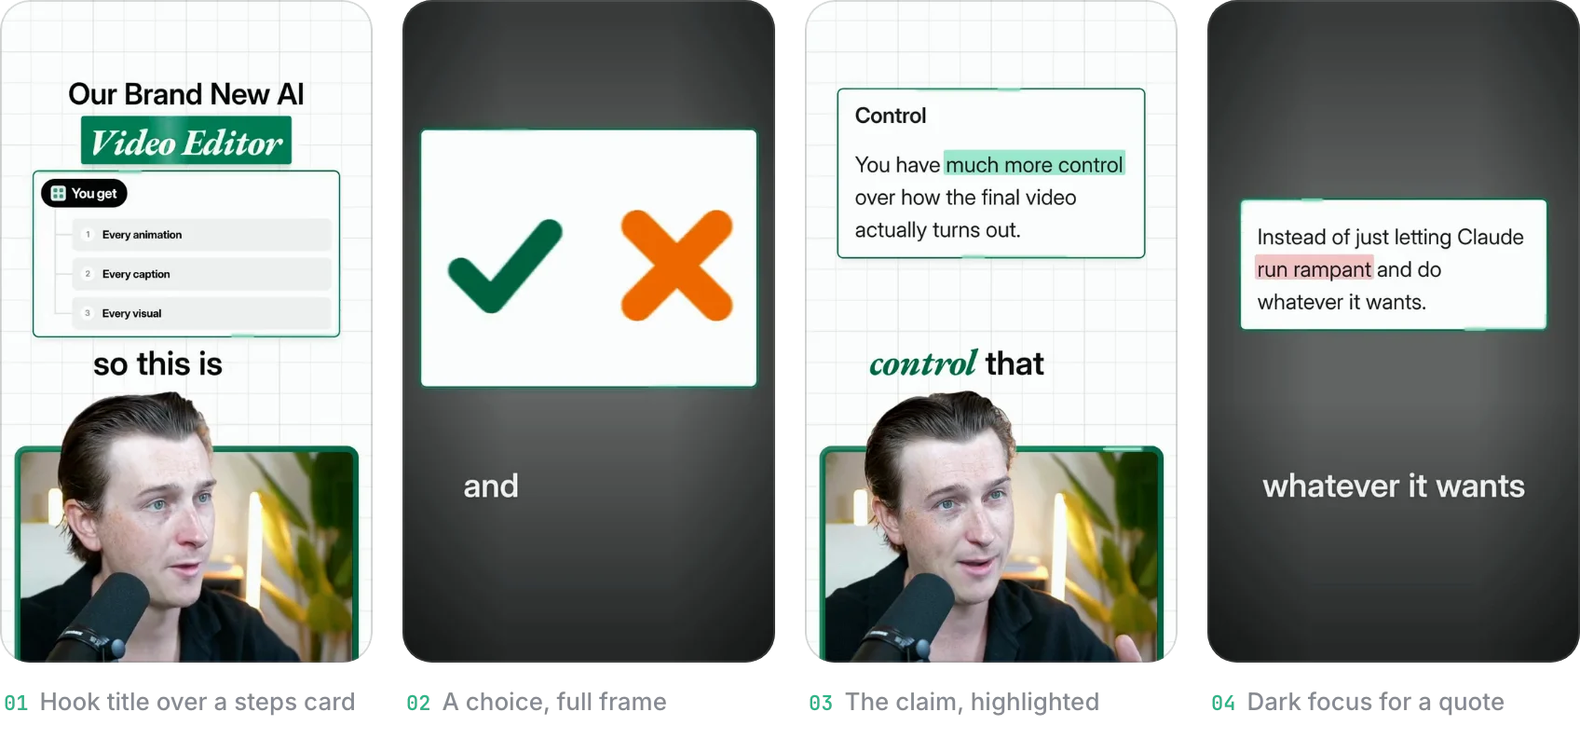
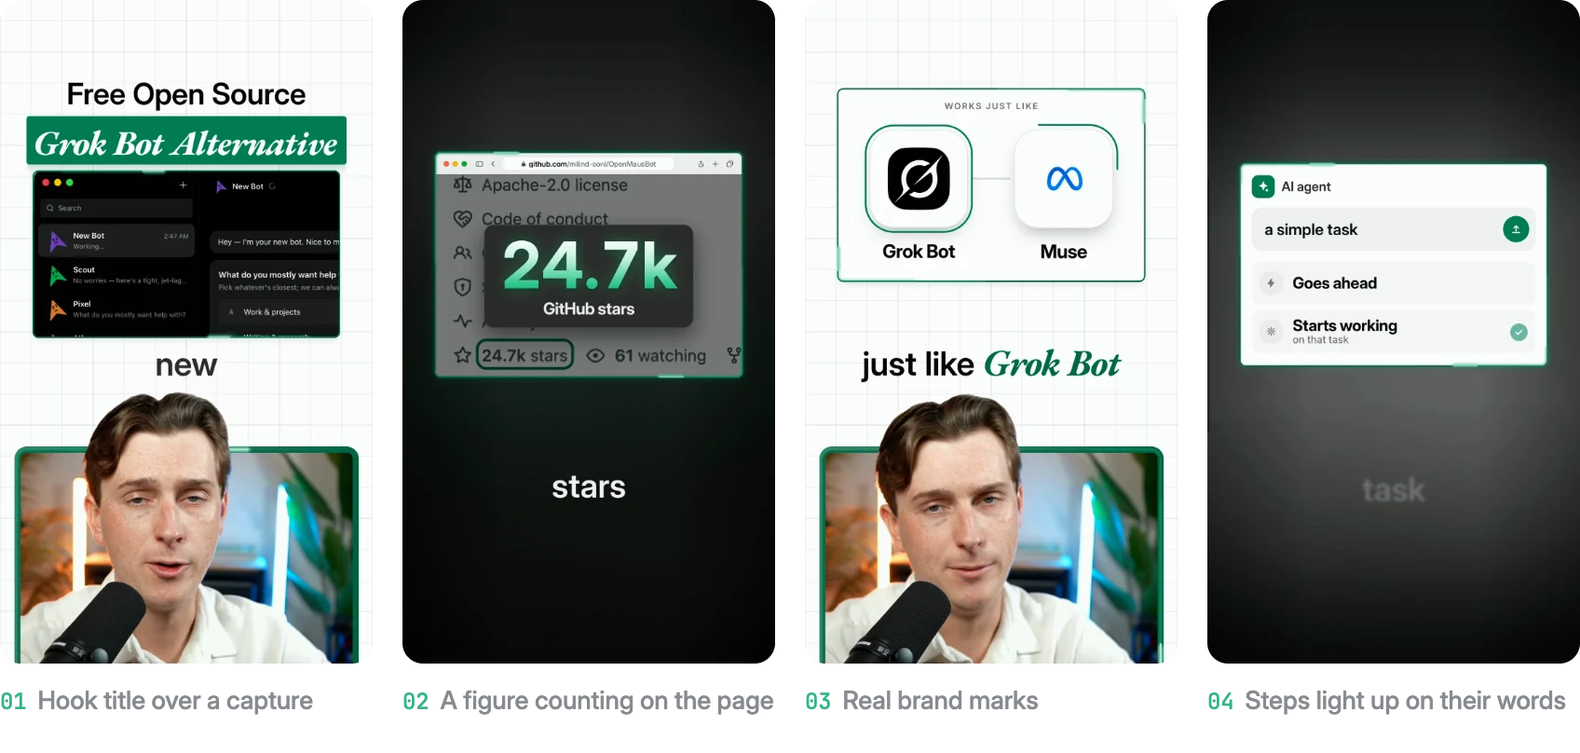
Motus 0.4.0: README for six styles, update guide, new media
The README described three to five styles, a 0.2.0 badge and a Mac-first
setup. It now matches the repository:

- Hero: the same 6 s of one take in all six styles, in sync.
- New strips for Ribbon Depth and Open Canvas; Editorial Proof and Ember
  Brief strips show their new cards. All from that same take.
- The app's "Pick a look" step, with each style playing its preview.
- Start here clones the repository. A new Update section: stop the app,
  git pull, start again (a running app server keeps serving old code);
  moving a ZIP download to a clone; updating the plugin.
- Styles in the app's order, a six-column side-by-side table with
  element and layout counts and versions, research numbers for all six
  packs, motus logo and the agent's product-video downloads under
  Privacy, yt-dlp as optional, PT Serif and Caveat Brush under Licence.

Versions: plugin 0.4.0 in both manifests, so installed plugins pick up
Open Canvas and the newer style work. Editorial Proof and Ember Brief
0.2.0, since both changed. CHANGELOG gains the missing Editorial Proof
entry.

diff --git a/README.md b/README.md
@@ -1,5 +1,5 @@
 <p align="center">
-  <img src="docs/media/hero.webp" width="100%" alt="Motus. Three phones play takes edited by Motus, one in each style: Editorial Proof, Night Class and Ember Brief.">
+  <img src="docs/media/hero.webp" width="100%" alt="Motus. Six phones play the same moment of one take, edited by Motus in each of its six styles: Ribbon Depth, Editorial Proof, Ember Brief, Night Class, Open Canvas and Prop Room.">
 </p>
 
 <p align="center">
@@ -8,7 +8,8 @@
 </p>
 
 <p align="center">
-  <a href="CHANGELOG.md"><img alt="Version 0.2.0" src="https://img.shields.io/badge/version-0.2.0-f2a33a?style=flat-square&labelColor=18181b"></a>
+  <a href="CHANGELOG.md"><img alt="Version 0.4.0" src="https://img.shields.io/badge/version-0.4.0-f2a33a?style=flat-square&labelColor=18181b"></a>
+  <a href="#six-styles"><img alt="Six styles" src="https://img.shields.io/badge/styles-6-f2a33a?style=flat-square&labelColor=18181b"></a>
   <a href="#install"><img alt="Claude Code plugin" src="https://img.shields.io/badge/Claude_Code-plugin-d97757?style=flat-square&labelColor=18181b"></a>
   <a href="#codex-experimental"><img alt="Codex: experimental" src="https://img.shields.io/badge/Codex-experimental-8b8f97?style=flat-square&labelColor=18181b"></a>
   <a href="#status-and-known-limits"><img alt="Tested on macOS and Windows" src="https://img.shields.io/badge/tested_on-macOS_%7C_Windows-8b8f97?style=flat-square&labelColor=18181b"></a>
@@ -19,7 +20,8 @@
 
 <p align="center">
   <a href="#start-here"><b>Start here</b></a> ·
-  <a href="#four-styles">Styles</a> ·
+  <a href="#update">Update</a> ·
+  <a href="#six-styles">Styles</a> ·
   <a href="#how-it-works">How it works</a> ·
   <a href="#studio">Studio</a> ·
   <a href="#how-styles-are-made">How styles are made</a> ·
@@ -32,7 +34,7 @@
 ## Start here
 
 1. Open Claude Code or Codex on your computer.
-2. Give it this folder (open the folder, or drag it into the chat) and say **go**.
+2. Paste this: **Clone https://github.com/kyleherbel/motus, then set up Motus and get started.** If you already have the folder, open it or drag it into the chat and say **go**.
 3. The Motus app opens in your browser. Drop a video in it, pick a look, review the edit scene by scene, and render.
 
 > [!TIP]
@@ -40,19 +42,56 @@
 
 You give Motus a raw take or a picture-locked cut and pick a style. You choose between options for each scene on a local review page, and you get a 1080×1920 MP4.
 
-Version 0.3.1. Five style packs, in beta. Runs on macOS and Windows 10 or 11. Claude Code is the first target. OpenAI Codex support is experimental.
+<img src="docs/media/app.webp" width="100%" alt="The Motus app after a video is dropped in. It asks how to cut the video (cut out pauses and mistakes, or keep every frame), then shows Pick a look: a card per style, each playing three short clips of a real edit in that style, with a summary and what it is best for. Ribbon Depth is selected.">
+
+The app asks how to cut the video and which look to use. Each style card plays a few seconds of a real edit in that style.
+
+Version 0.4.0. Six style packs, all in beta. Runs on macOS and Windows 10 or 11. Claude Code is the first target. OpenAI Codex support is experimental.
+
+### Update
+
+If you cloned the repository, paste this into Claude Code or Codex:
+
+> Update Motus: stop the Motus app (`node engine/bin/motus.mjs app --stop`, in my Motus folder), run `git pull`, then start Motus again.
+
+Stop the app before you pull. A running app server keeps serving the code it started with, and it stays up for up to 12 idle hours.
+
+- **From a ZIP.** A folder from GitHub's Download ZIP is not linked to the repository, so `git pull` cannot update it. Ask your agent to replace it with a clone in the same place, under the same name, and to copy over anything of yours from the old folder.
+- **As a Claude Code plugin.** Run `claude plugin marketplace update motus-market`, then `claude plugin update motus@motus-market`, and restart Claude Code.
+
+Your videos live outside the Motus folder, so an update never touches them.
 
 ## Six styles
 
-A style is a pack of rules, layouts and elements studied from reference videos. Pick one per video. All six are in beta: Editorial Proof, Night Class, Ember Brief, Prop Room and Open Canvas are version 0.1.0, Ribbon Depth is 0.2.0. Ribbon Depth combines measured public examples with documented original extensions.
+A style is a pack of rules, layouts and elements studied from reference videos. Pick one per video. All six are in beta: Ribbon Depth, Editorial Proof and Ember Brief are version 0.2.0; Night Class, Prop Room and Open Canvas are 0.1.0. Ribbon Depth combines measured public examples with documented original extensions. Open Canvas is measured from a single clip.
+
+The frames below come from real renders. The Ribbon Depth, Open Canvas, Editorial Proof and Ember Brief strips are all from one take, the same take the hero shows in all six styles.
+
+Ribbon Depth, Editorial Proof, Ember Brief and Prop Room draw cards that act the sentence out instead of repeating the caption: a count runs up to the number just said, a step lights up on its word, a pointer clicks the setting being named. When the speaker names a real product, the agent looks for the maker's own launch or demo video and cuts short clips of it into the edit, and `motus logo` fetches the brand's real mark for styles that show one.
+
+### Ribbon Depth &nbsp;<sub><code>ribbon-depth</code></sub>
+
+A bright speaker in their own darkened room, a turning 3D glass ribbon behind the head, frosted cards and icon tiles, and a cream capsule over a sans phrase with one heavy italic accent. Entrances go blur to sharp, the camera shakes on landings, and layout changes smear vertically. A scene library picks the device from what each sentence does, so it fits any topic or niche: counting numbers, stop-to-start swaps, charts, a hub with satellites, chat bubbles, notifications, quotes, a giant word behind the head, step stacks with a light trail, typed searches and a clicked button. The ribbon is a placed accent in four forms (spiral, sweep, halo, arc), not a background on every scene. A `split` layout puts the speaker in a glass window above a panel.
+
+<img src="docs/media/style-ribbon-depth.webp" width="100%" alt="Four Ribbon Depth frames: a glass card over the orange ribbon behind the speaker, the speaker in a glass window over a stop-to-start swap, a 20,000+ GitHub stars figure in heavy italic, and a comment button over the dark glass scene.">
+
+**Best for** polished talking-head reels on any topic or niche: personal brands and coaching; tool, product and money explainers; fitness, food and lifestyle tips. It is listed first in the app. Use `/motus:ribbon-reel`, or select Ribbon Depth in the app. Controls: Orange (default), Violet or Light Lime; motion intensity; ribbon strength; supporting captions. 17 elements and 6 layouts. See [the directing guide](skills/ribbon-reel/SKILL.md), [the style guide](styles/ribbon-depth/STYLE.md) and [what was measured](styles/ribbon-depth/research/README.md).
 
 ### Editorial Proof &nbsp;<sub><code>editorial-proof</code></sub>
 
-**Claim, then proof.** The speaker sits in a panel at the bottom with real evidence above: captured pages, numbers, lists. Word-by-word captions with accent keywords, dark focus shots for close reading, and a comment call to action at the end. Two accent colours, emerald and violet, over a white grid.
+**Claim, then proof.** The speaker sits in a panel at the bottom with real evidence above: captured pages, numbers, real brand marks. The designed cards act the sentence out: a question types in with the voice while the answer streams in, steps wait greyed and light up on their words, two sides converge or one wins, a divider wipes from before to after. Word-by-word captions with accent keywords, dark focus shots for close reading, and a comment call to action at the end. Two accent colours, emerald and violet, over a white grid.
 
-<img src="docs/media/style-editorial-proof.webp" width="100%" alt="Four Editorial Proof frames: a hook title over a steps card, a full-frame choice card, a claim with its key words highlighted, and a dark focus shot of a quote.">
+<img src="docs/media/style-editorial-proof.webp" width="100%" alt="Four Editorial Proof frames: a hook title over a captured page, a 24.7k figure counting over a GitHub page, two real brand marks side by side, and an AI agent card whose steps light up as they are spoken.">
 
-**Best for** tool and product breakdowns, numbered lists, news and explainer takes, anything with sources, numbers or screens to show.
+**Best for** tool and product breakdowns, comparisons, news and explainer takes, anything with sources, numbers or screens to show. 20 elements and 4 layouts.
+
+### Ember Brief &nbsp;<sub><code>ember-brief</code></sub>
+
+**The 40-second tool briefing.** A dark dotted field fills the top half of the frame and the speaker fills the bottom half. A new graphic lands about every three seconds, each event on the word that names it. Most of the explaining pictures are composites that fill the field and keep moving while the speaker talks: app tiles feed one card along curving lines with dots flowing in, a task ticks off its steps while a Working bar fills, a pointer glides to a row and flips its switch, a chip pops out beside a captured row and counts up to the page's figure. The rest show evidence: real page captures with magenta highlights, app screens redrawn as dark cards, clips of the product's own demo video. For a tall graphic the speaker slides away and the field takes the frame.
+
+<img src="docs/media/style-ember-brief.webp" width="100%" alt="Four Ember Brief frames: an opening title over a product screenshot, a Simple task card with its steps ticked off and the status Done, app icons feeding a 500+ app connectors card, and a pointer flipping magenta switches.">
+
+**Best for** solo briefings of 30 to 45 seconds: new tool and feature explainers, news takes with a source to show, short numbered tool lists. 21 elements and 2 layouts.
 
 ### Night Class &nbsp;<sub><code>night-class</code></sub>
 
@@ -60,21 +99,15 @@ A style is a pack of rules, layouts and elements studied from reference videos. 
 
 <img src="docs/media/style-night-class.webp" width="100%" alt="Four Night Class frames: numbered steps with a moving highlight, a document card, a table that fills in, and a light-field call to action.">
 
-**Best for** solo teaching videos: frameworks and playbooks, numbered steps and lists, how-tos and strategy explainers.
+**Best for** solo teaching videos: frameworks and playbooks, numbered steps and lists, how-tos and strategy explainers. 17 elements and 3 layouts.
 
-### Ember Brief &nbsp;<sub><code>ember-brief</code></sub>
+### Open Canvas &nbsp;<sub><code>open-canvas</code></sub>
 
-**The 40-second tool briefing.** A dark dotted field fills the top half of the frame and the speaker fills the bottom half. A new graphic lands about every three seconds. About half of them explain the sentence in motion, each event on the word that names it: a line draws between two things and a check lands, a figure counts while a picture fills, two cards race. The rest show evidence: real page captures with magenta highlights, app screens redrawn as dark cards. For a tall graphic the speaker slides away and the field takes the frame.
+**The video as an open design file.** The speaker is cut out over their own footage rectangle on a black drafting grid that drifts upward. Real pages and screens sit in light-blue selection frames with handles, and a cursor drags them into place. Pointers land on the spoken word: a box means read, a dot means tap, a whip scroll means "or over here". Captions arrive one word at a time with one brush-script word a sentence. Every change is a hard cut. There is no music and no sound effect, and the video ends on the bare face with the comment keyword.
 
-<img src="docs/media/style-ember-brief.webp" width="100%" alt="Four Ember Brief frames: a link drawing between Keyword and Resource, a free-against-paid card, a redrawn settings screen with toggles, and a comment call to action.">
+<img src="docs/media/style-open-canvas.webp" width="100%" alt="Four Open Canvas frames: a hook title over a captured page with the spoken words selected, a cursor on a real app screen above the cut-out speaker, a page in a light-blue selection frame with handles, and the bare face with a brush-script caption.">
 
-**Best for** solo briefings of 30 to 45 seconds: new tool and feature explainers, news takes with a source to show, short numbered tool lists.
-
-### Ribbon Depth &nbsp;<sub><code>ribbon-depth</code></sub>
-
-A bright speaker in their own darkened room, a turning 3D glass ribbon behind the head, frosted cards and icon tiles, and a cream capsule over a sans phrase with one heavy italic accent. Entrances go blur to sharp, the camera shakes on landings, and layout changes smear vertically. A scene library picks the device from what each sentence does, so it fits any topic or niche: counting numbers, stop-to-start swaps, charts, a hub with satellites, chat bubbles, notifications, quotes, a giant word behind the head, step stacks with a light trail, typed searches and a clicked button. The ribbon is a placed accent in four forms (spiral, sweep, halo, arc), not a background on every scene. A `split` layout puts the speaker in a glass window above a panel.
-
-**Best for** polished talking-head reels on any topic or niche: personal brands and coaching; tool, product and money explainers; fitness, food and lifestyle tips. It is listed first in the app. Use `/motus:ribbon-reel`, or select Ribbon Depth in the app. Controls: Orange (default), Violet or Light Lime; motion intensity; ribbon strength; supporting captions. 17 elements and 6 layouts. See [the directing guide](skills/ribbon-reel/SKILL.md), [the style guide](styles/ribbon-depth/STYLE.md) and [what was measured](styles/ribbon-depth/research/README.md).
+**Best for** tool and repo walkthroughs with real pages to show, and daily solo reels of 25 to 60 seconds. 5 elements and 6 layouts; five palettes (black and white by default). Measured from a single clip, so its rules are provisional. See [the style guide](styles/open-canvas/STYLE.md) and [what was measured](styles/open-canvas/research/README.md).
 
 ### Prop Room &nbsp;<sub><code>prop-room</code></sub>
 
@@ -84,23 +117,19 @@ A bright speaker in their own darkened room, a turning 3D glass ribbon behind th
 
 **Best for** solo tool, skill and workflow explainers of 30 to 47 seconds, where each step can become a picture. 20 elements and 3 layouts. See [the style guide](styles/prop-room/STYLE.md), [the prop library](styles/prop-room/props/README.md) and [what was measured](styles/prop-room/research/README.md).
 
-### Open Canvas &nbsp;<sub><code>open-canvas</code></sub>
-
-**The video as an open design file.** The speaker is cut out over their own footage rectangle on a black drafting grid that drifts upward. Real pages and screens sit in light-blue selection frames with handles, and a cursor drags them into place. Pointers land on the spoken word: a box means read, a dot means tap, a whip scroll means "or over here". Captions arrive one word at a time with one brush-script word a sentence. Every change is a hard cut. There is no music and no sound effect, and the video ends on the bare face with the comment keyword.
-
-**Best for** tool and repo walkthroughs with real pages to show, and daily solo reels of 25 to 60 seconds. 5 elements and 6 layouts; five palettes (black and white by default). Measured from a single clip, so its rules are provisional. See [the style guide](styles/open-canvas/STYLE.md) and [what was measured](styles/open-canvas/research/README.md).
-
 ### Side by side
 
-| | Editorial Proof | Night Class | Ember Brief | Ribbon Depth | Prop Room | Open Canvas |
-|---|---|---|---| --- | --- | --- |
-| Frame | Speaker panel at the bottom, evidence above, white grid | Small presenter panel under a black dot-grid field | Dotted field over the speaker, half and half | Full-frame speaker with graphics behind the head, a speaker window over a panel, and abstract glass scenes | Pale panel over the speaker, cut every 2 s to full-frame scenes and short full-height speaker beats | Speaker cut-out over their footage rectangle on a drafting grid, captures in selection frames; six layouts |
-| Captions | Word by word, accent keywords | One word | Two words, the spoken word in magenta | Words land one by one; capsule plus sans/heavy-italic hero | One to three words, white on a dark plate across the seam | Word by word, one brush-script word a sentence |
-| Signature move | Dark focus shots for close reading | A hard cut to the full-height speaker about every 10 s | A new graphic about every 3 s, half of them explaining in motion | A turning glass ribbon used as an accent, a scene library for any niche, shakes on landings | Code-drawn props and rebuilt app windows that act each sentence out on its words | A cursor that drags windows into place and pointers that land on the spoken word |
-| Sound | Sound effects and two music beds | A sound kit and a music bed | No sound effects, one music bed | Three optional original effects; no bundled bed | Original effects and three beds: two drum-led, one pad | Voice only |
-| Look choices | Accent: emerald or violet | Sound kit, music bed, field texture | None | Orange, Violet or Light Lime; motion intensity; ribbon strength; captions | None: the plate is chosen per scene | Palette: mono (default), cobalt, ember, moss, ink |
-| Best source | Any take, cropped to 9:16 around the speaker | A shot wider than 9:16 (the horizontal recording) | A shot wider than 9:16 (the horizontal recording) | Clear 9:16 take and a good matte; explicit no-matte fallback | A shot wider than 9:16 (the horizontal recording) | A 9:16 take with a good matte |
-| Measured from | 33 short videos | 32 teaching reels | 11 reels | Two Violet examples in one public promo; static bright-family boards | 19 reels | 1 reel |
+| | Ribbon Depth | Editorial Proof | Ember Brief | Night Class | Open Canvas | Prop Room |
+|---|---|---|---|---|---|---|
+| Frame | Full-frame speaker with graphics behind the head, a speaker window over a panel, and abstract glass scenes | Speaker panel at the bottom, evidence above, white grid | Dotted field over the speaker, half and half | Small presenter panel under a black dot-grid field | Speaker cut-out over their footage rectangle on a drafting grid, captures in selection frames | Pale panel over the speaker, cut every 2 s to full-frame scenes and short full-height speaker beats |
+| Captions | Words land one by one; capsule plus sans/heavy-italic hero | Word by word, accent keywords | Two words, the spoken word in magenta | One word | Word by word, one brush-script word a sentence | One to three words, white on a dark plate across the seam |
+| Signature move | A turning glass ribbon used as an accent, a scene library for any niche, shakes on landings | Designed cards that act the claim out, dark focus shots for close reading | A new graphic about every 3 s; composites that fill the field and keep moving | A hard cut to the full-height speaker about every 10 s | A cursor that drags windows into place and pointers that land on the spoken word | Code-drawn props and rebuilt app windows that act each sentence out on its words |
+| Sound | Three optional original effects; no bundled bed | Sound effects and two music beds | No sound effects, one music bed | A sound kit and a music bed | Voice only | Original effects and three beds: two drum-led, one pad |
+| Look choices | Orange, Violet or Light Lime; motion intensity; ribbon strength; captions | Accent: emerald or violet | None | Sound kit, music bed, field texture | Palette: mono (default), cobalt, ember, moss, ink | None: the plate is chosen per scene |
+| Best source | Clear 9:16 take and a good matte; explicit no-matte fallback | Any take, cropped to 9:16 around the speaker | A shot wider than 9:16 (the horizontal recording) | A shot wider than 9:16 (the horizontal recording) | A 9:16 take with a good matte | A shot wider than 9:16 (the horizontal recording) |
+| Elements, layouts | 17, 6 | 20, 4 | 21, 2 | 17, 3 | 5, 6 | 20, 3 |
+| Measured from | Two Violet examples in one public promo; static bright-family boards | 33 short videos | 11 reels | 32 teaching reels | 1 reel | 19 reels |
+| Version | 0.2.0 | 0.2.0 | 0.2.0 | 0.1.0 | 0.1.0 | 0.1.0 |
 
 Each style's layouts, elements and their parameters are listed in `styles/<id>/style.json`. Run `/motus:styles` or `node engine/bin/motus.mjs styles` to see what is installed.
 
@@ -125,7 +154,7 @@ The same style code draws the Studio preview and the final render, so what you a
 | 2 | Ingest | engine | Extracts the audio, transcribes it with word timings, finds silences and candidate retakes, tracks the face (macOS), and writes contact sheets with the time burnt into every cell. |
 | 3 | Understand | agent | Reads the whole transcript and every contact sheet, writes `analysis/understanding.json`, and tells you in a few lines what the video is about. |
 | 4 | Cut and conform | agent, engine | Raw mode: the agent chooses the source ranges to keep (dead air, false starts and retakes go). Locked mode: every frame stays. `motus conform` builds the output timeline, the person matte (macOS) and a preview proxy. |
-| 5 | Plan | agent | Reads the style's `STYLE.md`, captures the web pages it wants to show as evidence, and writes `plan/edit.json`: the video divided into scenes, each with 2 to 4 alternative treatments built from the style's layouts and elements. `motus validate` checks it. |
+| 5 | Plan | agent | Reads the style's `STYLE.md`, gathers evidence (captures of the web pages it wants to show, brand marks with `motus logo`, short clips of a named product's own demo video), and writes `plan/edit.json`: the video divided into scenes, each with 2 to 4 alternative treatments built from the style's layouts and elements. `motus validate` checks it. |
 | 6 | Self-review | agent, engine | `motus stills` renders posters and contact sheets of the planned cut. The agent looks at them and fixes the plan before you see it. |
 | 7 | Studio | you | A local page shows the plan scene by scene. You pick an option, leave notes, and lock scenes. "Send notes" hands your notes to the agent, which revises and updates the page. |
 | 8 | Render | engine | Headless Chrome draws every frame of the final cut. ffmpeg encodes H.264 video and AAC audio, with loudness normalised to -14 LUFS. The result is `renders/final.mp4`. |
@@ -166,22 +195,25 @@ Your decisions are saved in `review/state.json` inside the project, so nothing i
 
 ## How styles are made
 
-The original three packs are measured from a corpus of reference videos. Ribbon Depth studies a smaller set of public examples and clearly separates observed geometry and timing from reconstructed materials and original extensions.
+Five packs are measured from reference videos: four from a corpus of 11 to 33 reels by one creator each, and Open Canvas from a single clip. Ribbon Depth studies a smaller set of public examples and clearly separates observed geometry and timing from reconstructed materials and original extensions.
 
 <table>
   <tr>
-    <td align="center" width="25%"><h3>76</h3>reference videos measured</td>
-    <td align="center" width="25%"><h3>9</h3>dimensions per style</td>
-    <td align="center" width="25%"><h3>181</h3>numbers re-measured in a second pass</td>
+    <td align="center" width="25%"><h3>96</h3>reference videos measured</td>
+    <td align="center" width="25%"><h3>9</h3>dimensions per study</td>
+    <td align="center" width="25%"><h3>210</h3>numbers re-measured in a second pass</td>
     <td align="center" width="25%"><h3>0</h3>reference frames shipped</td>
   </tr>
 </table>
 
-- **Editorial Proof** was built from 33 public short videos by one creator, published between 12 October and 9 November 2026.
+- **Editorial Proof** was built from 33 public short videos by one creator, published between 12 October and 9 November 2026. A second study of the reference's 255 designed graphics and 739 timed events (`styles/editorial-proof/research/explain.md`) showed that the cards act each sentence out, and the style now does the same.
 - **Night Class** was built the same way from 32 teaching reels by another creator, published between 10 October and 11 November 2026. Its second pass re-measured 74 quantities and corrected 15 of them (`styles/night-class/research/verification.md`).
-- **Ember Brief** was built from 11 reels by a third creator, published between 2 and 7 November 2026. Its second pass re-measured 107 quantities and corrected 11 (`styles/ember-brief/research/verification.md`). A second study measured how its illustrations and diagrams explain what is being said (`styles/ember-brief/research/explain.md`).
+- **Ember Brief** was built from 11 reels by a third creator, published between 2 and 7 November 2026. Its second pass re-measured 107 quantities and corrected 11 (`styles/ember-brief/research/verification.md`). A second study measured how its illustrations and diagrams explain what is being said (`styles/ember-brief/research/explain.md`), and a third found that most of them are composites that fill the field and keep moving (`explain-composites.md`).
+- **Prop Room** was built from 19 reels by one creator, published between 29 October and 12 November 2026, with an explanation pass over all 279 graphic units. Its verifier re-measured 29 quantities (`styles/prop-room/research/verification.md`).
+- **Open Canvas** was measured from one public reel of 28.9 s, read at every frame. One clip cannot separate a habit of the style from a habit of one video, so every rule is medium or low confidence, and the pack stays in beta until a corpus of 15 or more clips is studied.
+- **Ribbon Depth** studies one public 20-second promo that contains two Violet edits, and six public scene boards (`styles/ribbon-depth/research/README.md`).
 
-Nine analysts each measured one dimension: layout, type, hook, graphics, motion, structure, colour, audio, presenter. Every rule is a number with evidence: a count, a frame range, a fit error. A second pass re-measured the disputed and critical numbers. The numbers then became one tokens file, the elements were built against it, and each was compared side by side with reference frames.
+For a corpus, nine analysts each measured one dimension: layout, type, hook, graphics, motion, structure, colour, audio, presenter. Every rule is a number with evidence: a count, a frame range, a fit error. A second pass re-measured the disputed and critical numbers. The numbers then became one tokens file, the elements were built against it, and each was compared side by side with reference frames.
 
 The reference videos themselves are never part of this repository. Rights to them are unknown, so they stay on the machine of whoever does the study. Sound effects, music beds and background plates in a style pack are synthesised from the measurements, not copied. Each style also has its own release palette in place of the measured colours; every measured value sits next to its replacement in the style's `research/colour.md`.
 
@@ -222,7 +254,7 @@ Motus needs local files, ffmpeg and a browser, so it runs in Claude Code on your
 <summary><b>Plugin packaging and updates</b></summary>
 <br>
 
-The repository is both the marketplace and the plugin (`.claude-plugin/marketplace.json` points at `./`). The plugin version is set in `.claude-plugin/plugin.json`. Claude Code keeps the installed copy until that version string changes, and it does not auto-update third-party marketplaces unless you turn that on under `/plugin`, Marketplaces.
+The repository is both the marketplace and the plugin (`.claude-plugin/marketplace.json` points at `./`). The plugin version is set in `.claude-plugin/plugin.json`. Claude Code keeps the installed copy until that version string changes, and it does not auto-update third-party marketplaces unless you turn that on under `/plugin`, Marketplaces. To update by hand: `claude plugin marketplace update motus-market`, then `claude plugin update motus@motus-market`, then restart Claude Code.
 
 </details>
 
@@ -281,6 +313,8 @@ node engine/bin/motus.mjs doctor
 node engine/bin/motus.mjs init take.mp4 --style editorial-proof --mode raw
 node engine/bin/motus.mjs ingest motus-projects/take
 node engine/bin/motus.mjs conform motus-projects/take      # needs plan/cuts.json in raw mode
+node engine/bin/motus.mjs capture https://example.com --out motus-projects/take/assets/page.png --find "a phrase"
+node engine/bin/motus.mjs logo Notion --out motus-projects/take/assets/logos/notion.png
 node engine/bin/motus.mjs validate motus-projects/take     # needs plan/edit.json
 node engine/bin/motus.mjs stills motus-projects/take --posters --sheet
 node engine/bin/motus.mjs studio motus-projects/take --open
@@ -302,8 +336,9 @@ node engine/bin/motus.mjs render motus-projects/take
 | Python 3.9 or newer with `faster-whisper` | Transcription. macOS: `python3 -m pip install faster-whisper`. Windows: `winget install Python.Python.3.12`, then `py -3 -m pip install faster-whisper`. The first transcription downloads the speech model (`large-v3-turbo`, about 1.6 GB). |
 | Xcode command line tools | Optional, macOS only. Provides `swiftc` for the person matte and face tracking (Apple Vision). `xcode-select --install`. The helper is compiled on first use into `~/.cache/motus`. |
 | Claude Code, or Codex CLI | The agent that drives the engine. |
+| `yt-dlp` | Optional. The agent uses it to download a named product's own launch or demo video for clips. macOS: `brew install yt-dlp`. Windows: `winget install yt-dlp.yt-dlp`. |
 
-`motus doctor` checks every line of this table and prints a fix for anything missing.
+`motus doctor` checks every required line of this table and prints a fix for anything missing. It does not check `yt-dlp`.
 
 Environment overrides: `MOTUS_CHROME` (browser binary), `MOTUS_PYTHON` (interpreter), `MOTUS_WHISPER_MODEL` (for example `small` on a slow machine), `MOTUS_CACHE` (where the compiled helper is kept), `MOTUS_STYLES` (another styles folder), `MOTUS_HOME` (the app's workspace).
 
@@ -338,14 +373,15 @@ How the parts fit together is in [docs/ARCHITECTURE.md](docs/ARCHITECTURE.md).
 
 ## Privacy
 
-The engine runs on your machine. It has no telemetry and no upload code. Its own network use is limited to two things:
+The engine runs on your machine. It has no telemetry and no upload code. Its own network use is limited to three things:
 
 1. **Page capture.** `motus capture <url>` opens the page the agent chose in headless Chrome and screenshots it.
 2. **The speech model.** The first transcription downloads the model through `faster-whisper`, once.
+3. **Brand marks.** `motus logo <brand>` loads the Simple Icons brand list from jsDelivr, asks Google's favicon service for the brand's site icon, and falls back to the brand's Simple Icons mark when the site icon is missing or too small. What goes out is the brand's name and site domain.
 
 Chrome is started with a temporary empty profile. Motus does not control any background requests the browser itself makes.
 
-The agent is a separate matter. Claude Code and Codex are cloud models. What the agent reads to do its job (the transcript, contact sheets, stills, captured pages) is sent to the agent's provider under your agreement with them. The video file itself is not uploaded by Motus.
+The agent is a separate matter. Claude Code and Codex are cloud models. What the agent reads to do its job (the transcript, contact sheets, stills, captured pages) is sent to the agent's provider under your agreement with them. The video file itself is not uploaded by Motus. When the speaker names a real product, the agent may also download that product's own demo video from its site, repository or the maker's posts, to cut clips from it.
 
 Your source video is treated as read-only. Everything Motus writes goes into the project folder, plus a compiled helper in `~/.cache/motus`.
 
@@ -353,8 +389,8 @@ Your source video is treated as read-only. Everything Motus writes goes into the
 
 - **Windows works without the person matte.** The person matte and face tracking use Apple Vision through a small Swift helper, so they are macOS only. On Windows (and on a Mac without the Swift toolchain) the engine falls back to un-matted framing: no head rising above the presenter panel, and a centre crop for sources that are not 9:16. Everything else (the app, transcription, Studio, rendering) runs the same. Windows is checked on a Windows runner: `motus doctor`, transcription with faster-whisper, the app and Studio servers, the unit tests and an end-to-end render. Linux has code paths but has not been run.
 - **Transcription on an NVIDIA GPU** needs the CUDA libraries (cuBLAS, cuDNN). Without them it falls back to the CPU on its own, which is slower.
-- **Four style packs, all in beta.** Expect their elements and rules to change before 1.0.
-- **Output** is always 1080×1920 at the source frame rate. Draft renders are 540×960. A style can also ask conform to keep the whole source frame as a wide view (Night Class and Ember Brief do); then the preview proxy is about 3870 px wide.
+- **Six style packs, all in beta.** Expect their elements and rules to change before 1.0. Open Canvas is measured from a single clip, so its rules are provisional.
+- **Output** is always 1080×1920 at the source frame rate. Draft renders are 540×960. A style can also ask conform to keep the whole source frame as a wide view (Night Class, Ember Brief and Prop Room do); then the preview proxy is about 3870 px wide.
 - **The source must contain the speech.** A file with no audio stream cannot be planned.
 - **Transcription is automatic** and makes mistakes, mostly on names. The agent repairs captions from context. Pass names up front to help it.
 - **English only, so far.** The styles were measured on English-language videos. Other languages transcribe, but the caption rules have not been tested on them.
@@ -365,7 +401,7 @@ Your source video is treated as read-only. Everything Motus writes goes into the
 
 Code: MIT, see [LICENSE](LICENSE).
 
-Bundled fonts (Inter, EB Garamond, JetBrains Mono, Instrument Serif, Outfit, DM Sans, Playfair Display) are under the SIL Open Font License 1.1: see `OFL.txt` beside them. The styles' sound effects and music beds are original, synthesised by each style's `dev/make-audio.mjs`, and MIT like the code: see `LICENSE.md` beside them.
+Bundled fonts (Inter, EB Garamond, JetBrains Mono, Instrument Serif, Outfit, DM Sans, Playfair Display, PT Serif, Caveat Brush) are under the SIL Open Font License 1.1: see `OFL.txt` beside them. The styles' sound effects and music beds are original, synthesised by each style's `dev/make-audio.mjs`, and MIT like the code: see `LICENSE.md` beside them.
 
 Reference corpora are never included. A style pack contains measurements and original assets only.
 

diff --git a/CHANGELOG.md b/CHANGELOG.md
@@ -2,7 +2,26 @@
 
 All notable changes to Motus are recorded here. The plugin version is the `version` field in `.claude-plugin/plugin.json` and `.codex-plugin/plugin.json`. Each style pack has its own version in `styles/<id>/style.json`.
 
-## Unreleased
+## 0.4.0
+
+Six styles. Both plugin manifests now use 0.4.0, so installed plugins see Open Canvas and the Editorial Proof and Ember Brief changes below. Editorial Proof and Ember Brief are now version 0.2.0.
+
+README and media:
+
+- New hero: the same 6 s of one take in all six styles, side by side and in sync (`docs/media/hero.webp`, animated WebP, 6.0 MB).
+- New strips for Ribbon Depth and Open Canvas; the Editorial Proof and Ember Brief strips now show their new cards. All four come from that same take.
+- `docs/media/app.webp`: the app's "Pick a look" step, with each style card playing its preview.
+- An Update section: stop the app, `git pull`, start it again. A running app server keeps serving the code it started with. Also how to move a ZIP download to a clone, and how to update the plugin.
+- Styles in the app's order, a side-by-side table with all six, element and layout counts and versions. "How styles are made" covers all six packs (96 reference videos, 210 numbers re-measured). Privacy lists `motus logo`'s requests and the agent's product-video downloads. Requirements list `yt-dlp` as optional. Licence lists PT Serif and Caveat Brush.
+
+Editorial Proof 0.2.0: motion graphics by default and real brand marks, from a second study of the reference (255 designed graphics, 739 timed events, `styles/editorial-proof/research/explain.md`).
+
+- New elements: `ask-card` (a question typed with the voice, the answer streaming in, sponsored and lit rows), `flow-card` (steps waiting greyed, lighting on their words, connectors drawing on with a travelling dot), `duel-card` (two sides converge, one wins, or a stream of people flows from one to the other) and `wipe-card` (before and after behind a sliding divider).
+- Shared motion in `src/anim.js`: traced outlines, word-synced typing, weighted arrivals, fly paths with blur, selection hand-off, packets.
+- The dark backdrop is a live blurred copy of the card, as measured (C19-C20). Card swaps inside a run slide-push with blur (M16).
+- `logo-card` lands its mark as a hero and accepts an original glyph.
+- `motus logo <brand>`: fetches a brand's full-colour site icon, or its Simple Icons vector mark, into the project for any card to use.
+- STYLE.md: motion graphics, real footage and real marks first; lists only for real lists; no caption reprints; checklist row 26.
 
 Open Canvas 0.1.0 (beta): a new style, `styles/open-canvas/`. The video staged as an open design file: the speaker cut out over their own footage rectangle on a drifting drafting grid, real captures in selection frames, a cursor that drags things into place, pointers on the spoken word, word-by-word captions with a brush-script word, a bare-face comment ask. Voice only.
 
@@ -11,7 +30,7 @@ Open Canvas 0.1.0 (beta): a new style, `styles/open-canvas/`. The video staged a
 - Measured from one clip read at every frame, not a corpus: every rule is medium or low confidence and the research notes say so. No sounds shipped. Fonts: Outfit, Caveat Brush, JetBrains Mono (SIL OFL 1.1).
 - End-to-end test on a Daily Update take: 12 scenes, 54.4 s, 1080x1920 at 29.97 fps, -14 LUFS.
 
-Ember Brief: composite pictures that fill the field, from a third pass over the reference (`styles/ember-brief/research/explain-composites.md`, K01-K12).
+Ember Brief 0.2.0: composite pictures that fill the field, from a third pass over the reference (`styles/ember-brief/research/explain-composites.md`, K01-K12).
 
 - `hub`: a card fed by a row of app tiles, grey lines curving into it, accent dots flowing down them (or out, with `dir: "out"`), and a figure or one-word state that lands counting on its word.
 - `task-card`: a task at work. Steps tick off one by one (every 15 frames, or spread up to a word), a Working bar fills, an optional person row goes from Online to Away, and the status reads the done text at the end.
